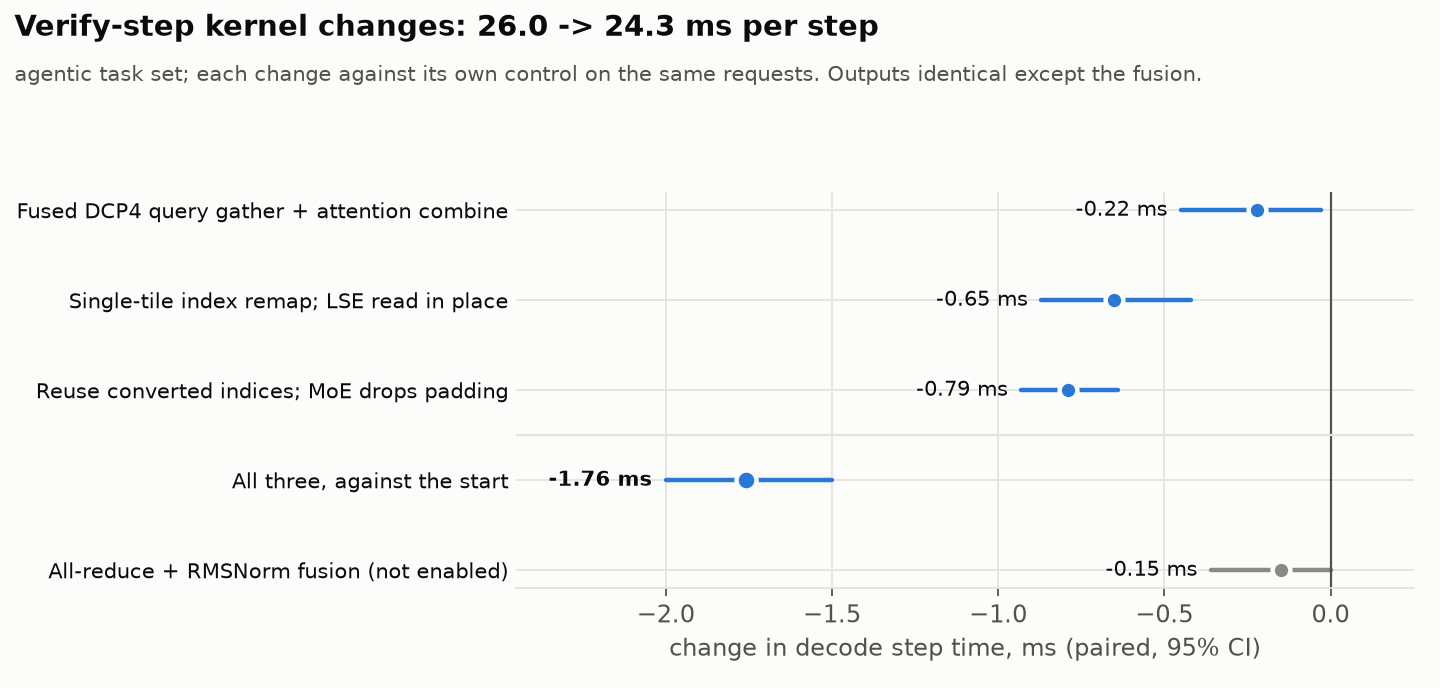
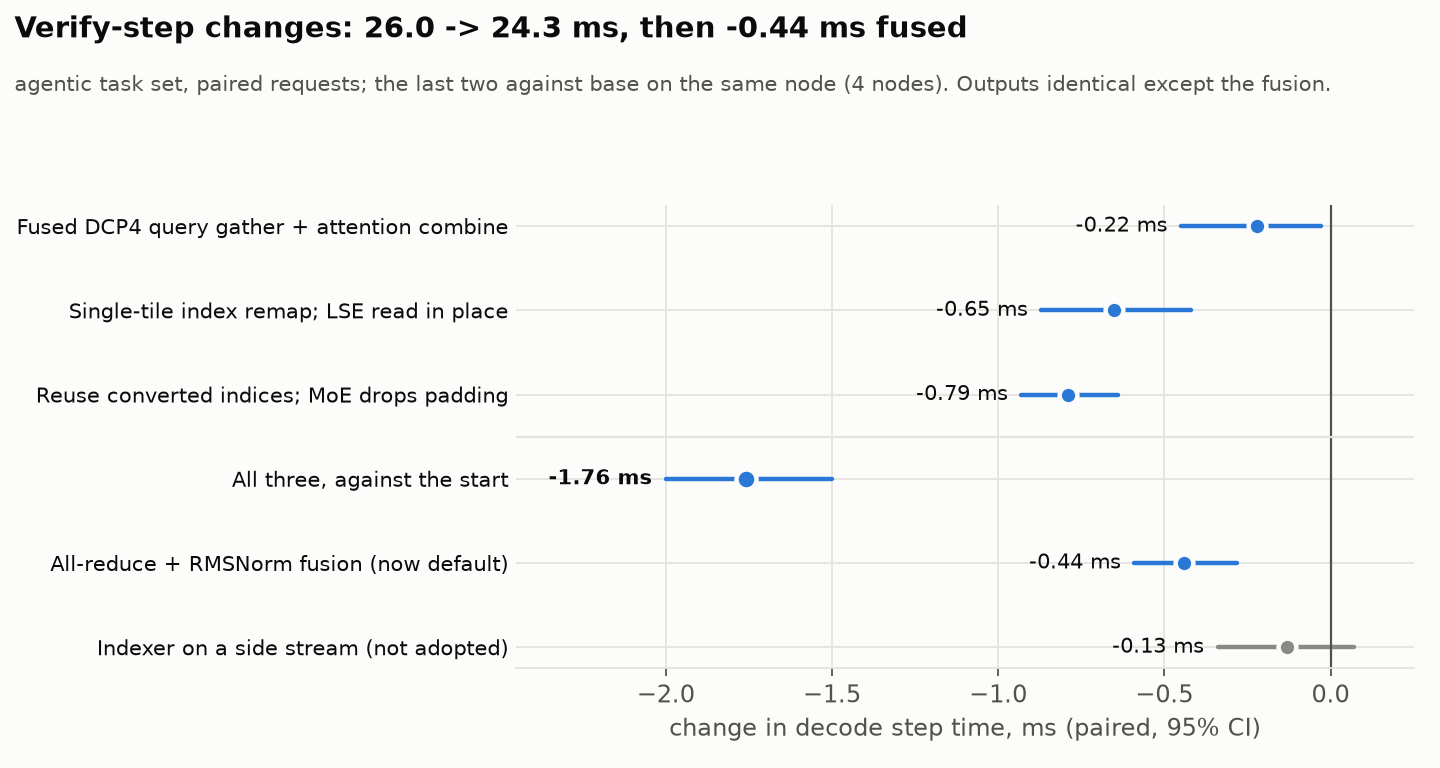
GLM-5.3: fused all-reduce/RMSNorm -0.44 ms (same-node A/B), now default; indexer side stream not adopted
Claude-Session: https://claude.ai/code/session_01BUDWRGBdjWCbAraMxkiHmz

diff --git a/glm/README.md b/glm/README.md
@@ -14,10 +14,13 @@ profile was built from (see [How it's measured](#how-its-measured)):
 | **GLM-5.3** W4A16, MTP7, DCP4, 400K | **28.1 ms** | 3.49 | **~124** |
 | **GLM-5.3** W4A16, DFlash2 (eager draft), DCP4, 400K | 25.9 ms | 3.25 | ~125 |
 | **GLM-5.3**, DFlash2, after the verify-step kernel work ([7](#7-kernel-work-on-the-verify-step-dflash2-dcp4-reserve-7)) | **24.4 ms** | 3.46 | **~142** |
+| **GLM-5.3**, + fused all-reduce/RMSNorm (now default) | **~24.0 ms**† | | **~144**† |
 | MiMo-V2.6 MXFP4, DFlash k=7, 250K | 16.9 ms | 3.53 | ~201 |
 
 \*Fitted at matched acceptance and 8K context; tok/s is step-weighted over the
-whole task set. All three accept 3.3-3.5 tokens per step on these tasks.
+whole task set. †The row above minus the fusion's same-node saving
+(0.44 ms), at the same acceptance. All accept 3.3-3.5 tokens per step on these
+tasks.
 
 ## How it's measured
 
@@ -292,10 +295,21 @@ step. At the same acceptance that is **~133 -> ~142 decode tok/s**.
 **Fusing the all-reduce with the next RMSNorm** crashed before because these
 GPUs are linked directly, without NVSwitch, so NVLink multicast is unavailable,
 yet vLLM's auto choice was FlashInfer's multicast backend. With the right
-backend it runs (and needed a compile fix for DFlash2's selector), but gains
-only -0.15 ms (-0.36 to +0.00): FlashInfer's fused all-reduce is slower than
-vLLM's own (5.5 vs 4.2 us per call), eating half of what dropping the norm
-saves. Not enabled.
+backend it runs (and needed a compile fix for DFlash2's selector). Measured
+against the unfused build **on the same node** (four nodes, each running both),
+it saves **0.44 ms per step (95% CI 0.28 to 0.59)** with acceptance unchanged,
+and it is now the default. A first estimate that compared arms on different
+nodes said only -0.15 ms: at this size the node-to-node spread swamps the
+effect, so every comparison since is paired within a node. FlashInfer's fused
+all-reduce is still slower than vLLM's own (5.5 vs 4.2 us per call), which
+costs part of what dropping the norm kernels saves. Unlike the changes above,
+the fusion is not bitwise: it sums in a different order.
+
+**Running the sparse-attention indexer on a second CUDA stream** (the idea of
+upstream vllm#47355, with the DCP gather kept on the main stream so collectives
+keep one order) did not pay: -0.13 ms (-0.34 to +0.07), same-node pairs. The
+part that can move off the critical path is small, and the indexer's
+cross-GPU merge stays serial. Not adopted.
 
 ![all-reduce: work vs waiting](figs/glm-allreduce.png)
 
@@ -313,6 +327,8 @@ against ~663 on average), which is what an ownership rebalance would target.
 
 - **hot-expert imbalance**, ~2 ms/step of all-reduce waiting: re-choose which
   GPU owns which hot experts (a profile rebuild, same math);
+- **DFlash2's context projection**, 0.14 ms/step, could overlap the sampler,
+  which runs on 8 of 132 SMs;
 - **the 8-token dense GEMMs and their split-K reduce kernels**, ~0.3-0.5 ms;
 - **the sampler's top-p kernel**, 0.2 ms on 8 of 132 SMs;
 - **DCP's collectives and the attention kernels**, now ~3 ms together.

diff --git a/README.md b/README.md
@@ -19,7 +19,8 @@ Both at batch one with speculative decoding. GSM8K doesn't move.
 the same agentic coding tasks and harness as MiMo it decodes at 28.1 ms/step
 (~124 tok/s) against MiMo's 16.9 (~201), at matched acceptance. With a DFlash2
 drafter, now working under DCP4, and a round of kernel work on the verify step
-(same outputs), it is at 24.4 ms/step (~142 tok/s):
+(same outputs), plus a fused all-reduce/RMSNorm, it is at ~24.0 ms/step
+(~144 tok/s):
 [glm/README.md](glm/README.md) tracks what was different, what it took, and
 where the gap is.
 
